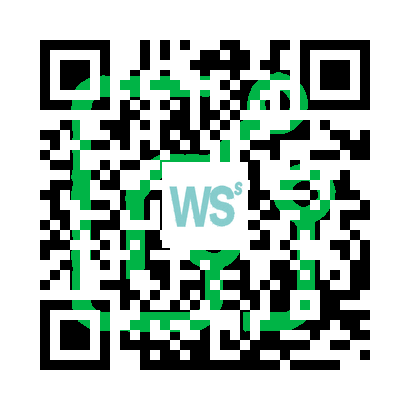
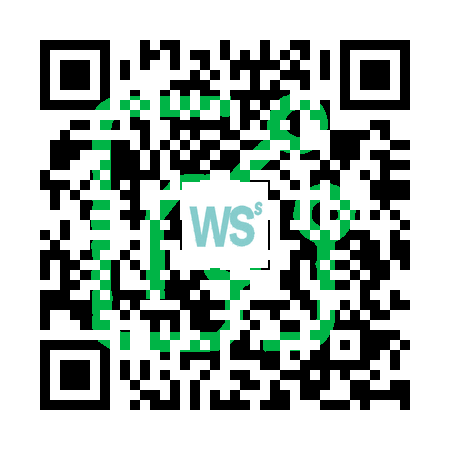
Add files via upload

diff --git a/Gen/QR.py b/Gen/QR.py
@@ -2,7 +2,7 @@ import qrcode
 from PIL import Image, ImageDraw
 
 # ---------- CONFIG ----------
-qr_data = "https://ramiju81.github.io/QR_WS/"
+qr_data = "https://womo-solucions.github.io/QR_WS/"
 logo_text_path = "circuito.png"  # imagen del circuito como molde
 qr_logo_path = "logo.png"  # logo central en verde azulado
 out_path = "QR_WSˢ.png"

diff --git a/Gen/QR_Ok.py b/Gen/QR_Ok.py
@@ -2,7 +2,7 @@ import qrcode
 from PIL import Image, ImageDraw
 
 # ---------- CONFIG ----------
-qr_data = "https://ramiju81.github.io/Vcard/"
+qr_data = "https://womo-solucions.github.io/Vcard/"
 logo_text_path = "circuito.png"  # imagen del circuito como molde
 qr_logo_path = "logo.png"  # logo central en verde azulado
 out_path = "QR_WSˢ.png"
